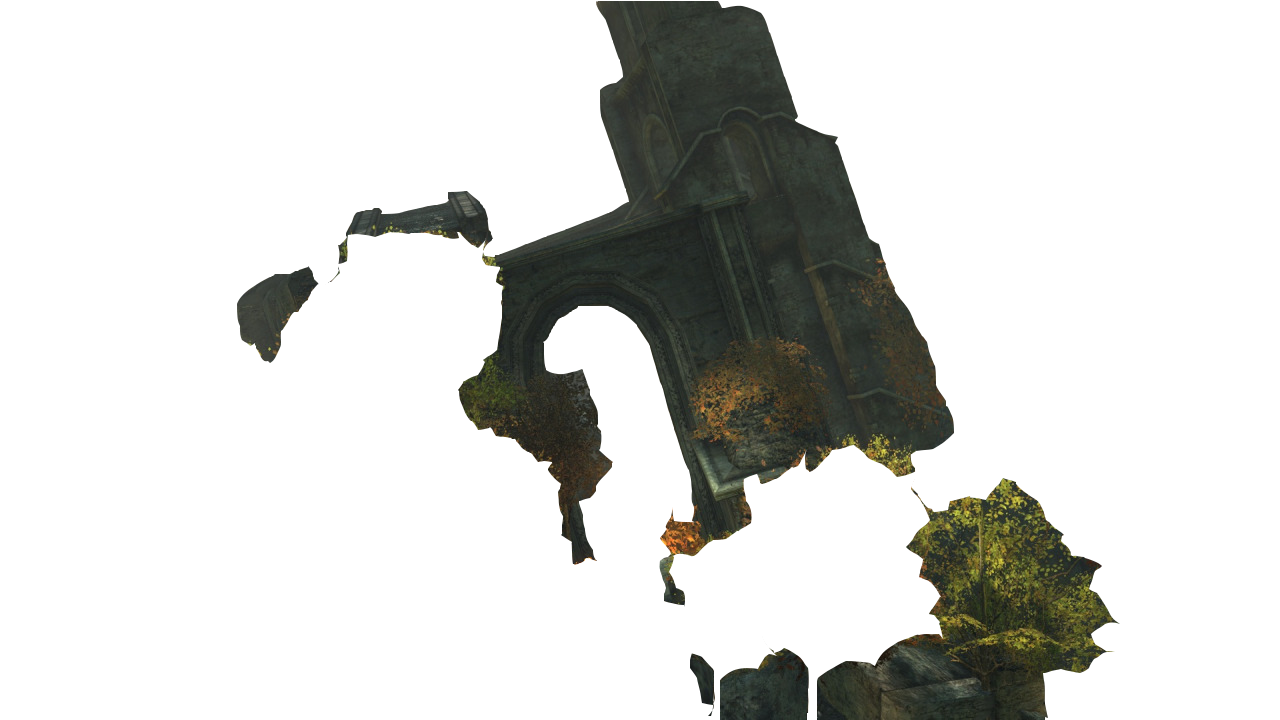
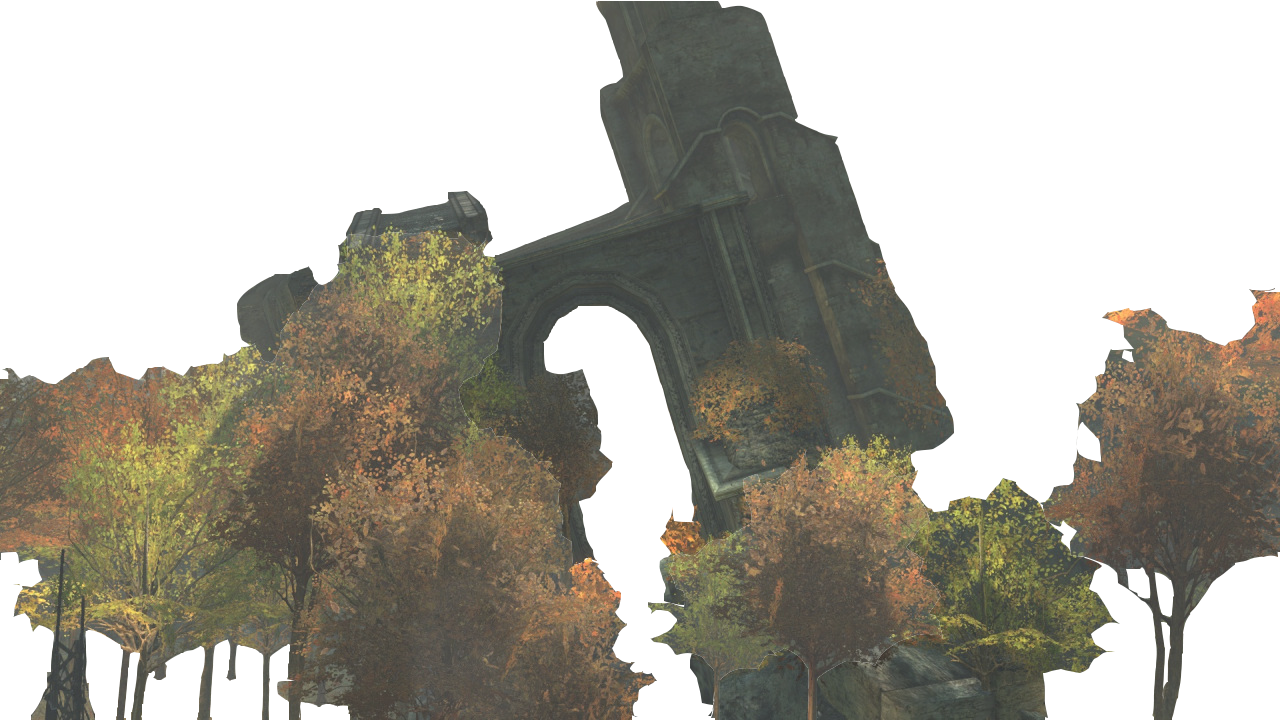
change image animation

diff --git a/dendrarium/style.css b/dendrarium/style.css
@@ -59,7 +59,18 @@ body {
     -moz-transform: translateZ(-100px);
     -webkit-transform-style: preserve-3d;
     transform-style: preserve-3d;
+    
+/*
+    -webkit-filter: blur(0px);
+    transition: 850ms;
+*/
+
 }
+/*
+#backplane.imagechangeblur {
+    -webkit-filter: blur(3px);
+}
+*/
 
 #backplanebackground {
     height: 100%;
@@ -73,37 +84,77 @@ body {
     transition: 1s;
 }
 
-.back_layer.layer1{
-    background: url(./images/scene2/4.png) no-repeat;
+.back_layer.layer4{
+    background: url(./images/scene1/4.png) no-repeat;
     background-size: cover;
     background-position: center;
     position: absolute;
     -webkit-transform: translateZ(0px);
     -moz-transform: translateZ(0px);
+    
+    transition: 
+                background-image 1500ms ease;
+    
+    
 }
-.back_layer.layer2{
-    background: url(./images/scene2/3.png) no-repeat;
+
+.back_layer.layer3{
+    background: url(./images/scene1/3.png) no-repeat;
     background-size: cover;
     background-position: center;
     position: absolute;
     -webkit-transform: translateZ(20px);
     -moz-transform: translateZ(20px);
+    
+    transition-delay: 0ms;  
+    transition: -moz-transform 1500ms ease, 
+                -webkit-transform 1500ms ease,
+                background-image 1500ms ease;
 }
-.back_layer.layer3{
-    background: url(./images/scene2/2.png) no-repeat;
+.back_layer.layer3.movedown{
+    -webkit-transform: translateZ(-20px);
+    -moz-transform: translateZ(0px);
+/*    transition-delay: 1000ms;*/
+}
+.back_layer.layer3.imagechange {
+    transition-delay: 0ms;
+}
+.back_layer.layer2{
+    background: url(./images/scene1/2.png) no-repeat;
     background-size: cover;
     background-position: center;
     position: absolute;
     -webkit-transform: translateZ(40px);
     -moz-transform: translateZ(40px);
+    
+    transition-delay: 0ms;
+    transition: -moz-transform 1500ms ease, 
+                -webkit-transform 1500ms ease,
+                background-image 1500ms ease;
 }
-.back_layer.layer4{
-    background: url(./images/scene2/1.png) no-repeat;
+.back_layer.layer2.movedown{
+    -webkit-transform: translateZ(-40px);
+    -moz-transform: translateZ(0px);
+/*    transition-delay: 500ms;*/
+}
+.back_layer.layer2.imagechange {
+    transition-delay: 0ms;
+}
+.back_layer.layer1{
+    background: url(./images/scene1/1.png) no-repeat;
     background-size: cover;
     background-position: center;
     position: absolute;
     -webkit-transform: translateZ(60px);
     -moz-transform: translateZ(60px);
+    
+    transition: -moz-transform 1500ms ease, 
+                -webkit-transform 1500ms ease,
+                background-image 1500ms ease;
+}
+.back_layer.layer1.movedown{
+    -webkit-transform: translateZ(-60px);
+    -moz-transform: translateZ(0px);
 }
 
 .back_layer{
@@ -112,7 +163,19 @@ body {
 /*    background: url(/images/def1.png) no-repeat;*/
     -webkit-transform-style: preserve-3d;
     transform-style: preserve-3d;
-    transition: 1s;
+/*    transition: 5s;*/
+/*    -webkit-filter: blur(0px);*/
+}
+.back_layer.imagechange {
+    transition-delay: 0ms;
+}
+
+.cardimage {
+    width: 100%;
+}
+.emptycardspase {
+    width: 100%; 
+    pointer-events: none;
 }
    
 /*

diff --git a/dendrarium/index.htm b/dendrarium/index.htm
@@ -41,11 +41,15 @@
 
             <div id="backplane">
 <!--                <div id="backplanebackground"></div>-->
-                
-                <div class="back_layer layer1"></div>
-                <div class="back_layer layer2"></div>
-                <div class="back_layer layer3"></div>
                 <div class="back_layer layer4"></div>
+                <div class="back_layer layer4"></div>
+                <div class="back_layer layer4"></div>
+                <div class="back_layer layer4"></div>
+                
+                <div class="back_layer layer4"></div>
+                <div class="back_layer layer3"></div>
+                <div class="back_layer layer2"></div>
+                <div class="back_layer layer1"></div>
                 
                 <div id="particles-js"></div>
                 
@@ -98,17 +102,12 @@
                         <div id="post">
                      
 
-                           <img class="photoimage" src="./images/11.png" style="width: 100%;" alt="photo1" onMouseOver="newBackground('/images/11.jpg')" />
-                            <img src="./images/transpadding.png" style="width: 100%; pointer-events: none;" />
+                           <img class="cardimage" src="./images/scene1/card.png" alt="card1" onMouseOver="newBackground(1)" />
+                           <img class="emptycardspase"
+                            src="./images/transpadding.png"/>
                         
-                          <img class="photoimage" src="./images/22.png" style="width: 100%;" alt="photo1" onMouseOver="newBackground('/images/22.jpg')" />
-                            <img src="./images/transpadding.png" style="width: 100%; pointer-events: none;" />
-                            
-                            <img class="photoimage" src="./images/33.png" style="width: 100%;" alt="photo1" onMouseOver="newBackground('/images/33.jpg')" />
-                            <img src="./images/transpadding.png" style="width: 100%; pointer-events: none;" />
-                            
-                            <img class="photoimage" src="./images/44.png" style="width: 100%;" alt="photo1" onMouseOver="newBackground('/images/44.jpg')" />
-                            <img src="./images/transpadding.png" style="width: 100%; pointer-events: none;" />
+                          <img class="cardimage" src="./images/scene2/card.png" alt="card2" onMouseOver="newBackground(2)" />
+                           <img class="emptycardspase" src="./images/transpadding.png"/>
                            
 <!--
                             <div class="photospace">

diff --git a/dendrarium/script.js b/dendrarium/script.js
@@ -1,5 +1,24 @@
-        function newBackground(bcgrnd) {         
-                $('#backplanebackground').css('background-image', 'url(' + String(bcgrnd) + ')');
+        function newBackground(num_card) {    
+            $('.back_layer').addClass("movedown");
+            
+//            setTimeout(function(){ 
+//                $('.back_layer').addClass("imagechange");
+//            }, 1500);
+            
+            setTimeout(function(){ 
+                $('.back_layer.layer4').css('background-image', 'url(./images/scene' + num_card + '/4.png)');
+                $('.back_layer.layer3').css('background-image', 'url(./images/scene' + num_card + '/3.png)');
+                $('.back_layer.layer2').css('background-image', 'url(./images/scene' + num_card + '/2.png)');
+                $('.back_layer.layer1').css('background-image', 'url(./images/scene' + num_card + '/1.png)');
+            }, 1000);
+//            setTimeout(function(){ 
+//                $('#backplane').removeClass("imagechangeblur");
+//            }, 2350);
+            setTimeout(function(){ 
+            $('.back_layer').removeClass("movedown");
+            $('.back_layer').removeClass("imagechange");
+//            }, 4500);
+            }, 2000);
         }
 
 
